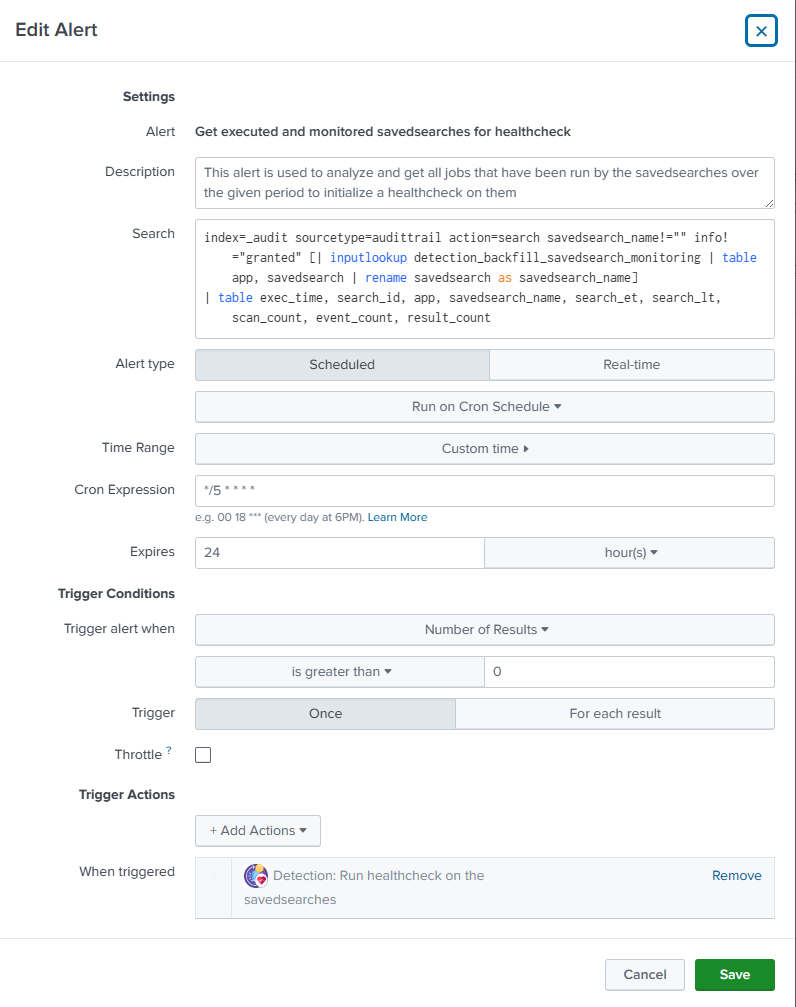
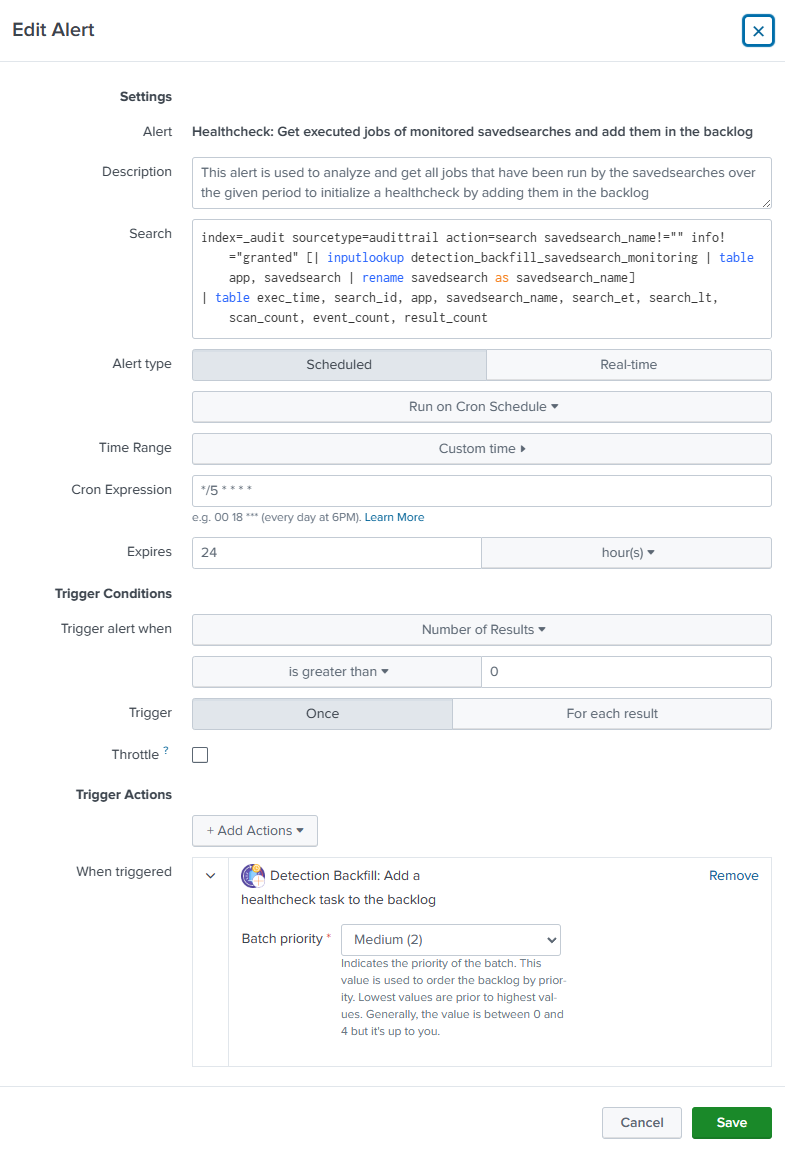
docs: improve documentation about the detection healthcheck mechanism

diff --git a/README.md b/README.md
@@ -23,7 +23,10 @@
       - [Example: Healthcheck job running with an additional scanned events (and matching the search query with an impact on the results count)](#example-healthcheck-job-running-with-an-additional-scanned-events-and-matching-the-search-query-with-an-impact-on-the-results-count)
       - [Example: Healthcheck job running without any change on the available events](#example-healthcheck-job-running-without-any-change-on-the-available-events)
     - [Set up the monitoring for a savedsearch](#set-up-the-monitoring-for-a-savedsearch)
+        - [What is the difference between "standard" and "advanced" monitoring?](#what-is-the-difference-between-standard-and-advanced-monitoring)
+      - [What is the consequence to enable the monitoring for one search?](#what-is-the-consequence-to-enable-the-monitoring-for-one-search)
     - [Understanding how healthcheck jobs are run](#understanding-how-healthcheck-jobs-are-run)
+    - [Understanding how the healthcheck jobs backlog is processed](#understanding-how-the-healthcheck-jobs-backlog-is-processed)
     - [Monitor the healthcheck jobs results](#monitor-the-healthcheck-jobs-results)
 - [Credits](#credits)
 - [License](#license)
@@ -243,7 +246,14 @@ In this view, you can see the list of savedsearches detected by the application 
 
 ![Detection Healthcheck - Set up monitoring](./images/detection_healthcheck_set_up_monitoring.png)
 
-Once enabled, it will be taken into account by the savedsearch named "Get executed and monitored savedsearches for healthcheck" (see after).
+##### What is the difference between "standard" and "advanced" monitoring?
+
+- **Standard** monitoring means that scan, event and result count will be checked based on the audittrail logs only
+- **Advanced** monitoring means that it's the standard monitoring in addition to a deep analysis of the results for each savedsearch to detect a change in the result content (and not only the count). **Advanced** monitoring applied on savedsearches will have for consequence to enable another savedsearch which will index all the results from the jobs in a dedicated index to analyze and compare them between the original and the healthcheck jobs.
+
+#### What is the consequence to enable the monitoring for one search?
+
+Once enabled, it will be taken into account by the savedsearch named "Healthcheck: Get executed jobs of monitored savedsearches and add them in the backlog" (see after).
 
 > In case you want to add a batch of app/savedsearches at once, you just have to fullfil the lookup named "detection_backfill_savedsearch_monitoring" with your list with an additional field named "enabled" set to 1.
 
@@ -251,15 +261,15 @@ Once enabled, it will be taken into account by the savedsearch named "Get execut
 
 ### Understanding how healthcheck jobs are run
 
-In order to know which jobs needs to be run, this application is using a savedsearch named "Get executed and monitored savedsearches for healthcheck".
+In order to know which jobs needs to be run, this application is using a savedsearch named "Healthcheck: Get executed jobs of monitored savedsearches and add them in the backlog".
 
 ![Detection Healthcheck - Savedsearch for new healthcheck jobs](./images/detection_healthcheck_savedsearch_new_healthcheck_jobs.png)
 
-This savedsearch is used to get the jobs ran over a given period, `every 5 minutes`, by the monitored savedsearches only.
+This savedsearch is used to get the jobs ran over a given period, `every 5 minutes`, on the monitored savedsearches only.
 
 By default, this period is set to `Earliest time = -365min / Latest time = -360 min` which corresponds to 6 hours later. This can be customized as you want but be careful to keep a delta time of 5 minutes except if you want to run the search less often. However, be careful as running again the searches sooner might lead to performances impact and possibly missing late indexed events. Using 6 hours (even 12 hours) seems to be a good choice as it means that your savedsearches ran during the day (when the number of logs is normally the highest) will be run in a period of time when the performance impact of all searches is reduced. It's always a matter of good balance at the end as you want also to be notified as quickly as possible than a detection rule wasn't executed correctly.
 
-As you can see on the screenshot, the found events will be processed by a custom alert action in python named "Detection: Run healthcheck on the savedsearches".
+As you can see on the screenshot, the found events will be processed by a custom alert action in python named "Detection Backfill: Add a healthcheck task to the backlog" which will add the found jobs to be processed accordingly to a backlog mechanism.
 
 Any event shall contain a list of fields used to create the healthcheck jobs:
 
@@ -273,7 +283,21 @@ Any event shall contain a list of fields used to create the healthcheck jobs:
 - **event_count**: Original job event count
 - **result_count**: Original job result count
 
-> You can manually run healthcheck jobs over executed jobs by using this command at the end of your search: `| sendalert detection_backfill_run_healtcheck_on_savedsearches`
+> You can manually this commmand over executed jobs by using this one at the end of your search: `| sendalert detection_backfill_add_a_healthcheck_task_to_the_backlog`
+
+### Understanding how the healthcheck jobs backlog is processed
+
+Once your new healthcheck jobs are scheduled in the backlog (which is actually a simple lookup), another search named "Healthcheck: Run the next healthcheck jobs from the backlog".
+
+![Detection Healthcheck - Run the next healthcheck jobs](./images/detection_healthcheck_run_the_next_healthcheck_jobs.png)
+
+The number of events returned by this savedsearch is used to determine how many events shall be processed at once from the backlog lookup. The periodicity, which is by default 5 minutes, determines how often the backlog shall be processed. You can customize those parameters as you wish.
+
+> By default, the cron tab is set up to be launched every 5 minutes but you can optimize this to execute the savedsearch only at night or during the week-end if you don't want to consume too much resources from your search heads.
+
+As you can see on the screenshot, events will be processed by a custom alert action in python named "Detection Backfill: Run healthcheck on the savedsearches" which will dispatch the healthcheck jobs accordingly to the number of events given from the search (the content isn't useful, only the number of events is). You can customize if you want to dispatch your healthcheck jobs as "ad-hoc" searches (creates a job)  or as another instance of the "savedsearch" object (dispatch the savedsearch).
+
+> You can manually this commmand over executed jobs by using this one at the end of your search: `| sendalert detection_backfill_run_healtcheck_on_savedsearches`
 
 ### Monitor the healthcheck jobs results
 
@@ -285,7 +309,7 @@ In this view, you can see the healthcheck jobs execution and results. On the top
 
 Several cases can happened:
 
-- **No healthcheck job was found**: It happens when the original job execution time is older than the last period observed by the "Get executed and monitored savedsearches for healthcheck" savedsearch or if the original job time is recent (and then, healthcheck jobs aren't run yet but will be).
+- **No healthcheck job was found**: It happens when the original job execution time is older than the last period observed by the "Healthcheck: Get executed jobs of monitored savedsearches and add them in the backlog" savedsearch or if the original job time is recent (and then, healthcheck jobs aren't run yet but will be).
 - **Found healthcheck job result**: It happens when a healthcheck job was performed over an original job. In this case you can see the results of the healthcheck job showing any success/warning/failure over the check on the scan, event or result count.
 
 On the bottom of this dashboard, you can have the full details about the healthcheck executions and see the results for each one of them. In this example, you can see the different cases that could happen for the healthcheck jobs results:
